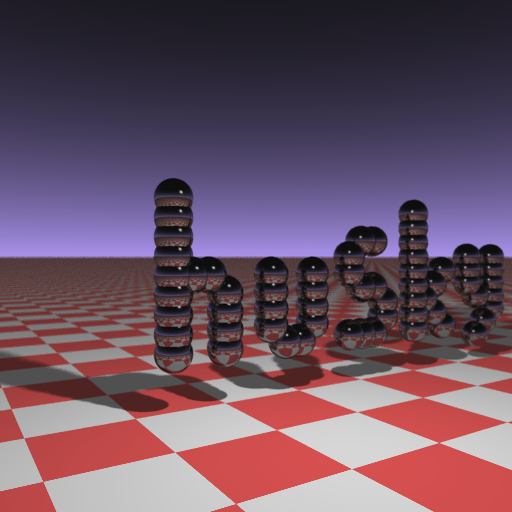
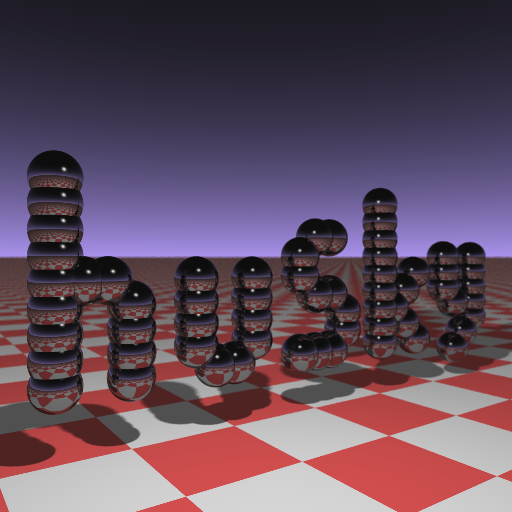
tweaked business-card raytrace camera placement and updated readme screenshot

diff --git a/sycl-business-card-raytracer.cpp b/sycl-business-card-raytracer.cpp
@@ -196,7 +196,7 @@ void GetColor( unsigned char* img, uint32_t gid ) {
 
     //v cam_dir = !v(-4, -16, 0); // more "orthogonal"
     //v cam_dir = !v(-6, -16, 0);
-    v cam_dir = !v( -10, -16, 0 ); // more "slanted"
+    v cam_dir = !v( -11, -16, 0 ); // more "slanted"
     //v cam_dir = !v(0, -20, 0);
     v cam_up = !(v( 0, 0, 1 ) ^ cam_dir) * .002f;
     v cam_right = !(cam_dir ^ cam_up) * .002f;// * ( static_cast<float>(DIM_X)/static_cast<float>(DIM_Y) );
@@ -208,7 +208,7 @@ void GetColor( unsigned char* img, uint32_t gid ) {
         v delta = cam_up * (RANDOM( g_seed ) - .5f) * 99.0f + cam_right * (RANDOM( g_seed ) - 0.5f) * 99.0f;
         color = Sample(
             //v(17, 16, 8) + delta,
-            v( 23, 24, 8 ) + delta, // move cam to the left and slightly away from the text
+            v( 17.5f, 20, 8 ) + delta, // move cam to the left and slightly away from the text
             !(delta * -1 + (cam_up * (RANDOM( g_seed ) + x) + cam_right * (y + RANDOM( g_seed )) + eye_offset) * 16.0f), g_seed )
             * 3.5f +
             color;
@@ -240,9 +240,6 @@ int main() {
         //    2nd parameter is the kernel, a lambda that specifies what to do per
         //    work item. the parameter of the lambda is the work item id.
         // SYCL supports unnamed lambda kernel by default.
-
-        //!!! printf( "sycl parallel for\n" );
-
         auto e = q.parallel_for(
             numPixels,
             [=]( auto gid ) {
@@ -261,10 +258,8 @@ int main() {
         printf( "P6\n# duration=%fsec\n%d %d 255 ", duration, DIM_X, DIM_Y );
 
         char* c = reinterpret_cast<char*>(dev_bitmap);
-        for (int y = DIM_Y; y--;)
-        {
-            for (int x = DIM_X; x--;)
-            {
+        for ( uint32_t y = DIM_Y; y--; ) {
+            for ( uint32_t x = DIM_X; x--; ) {
                 c = reinterpret_cast<char*>(&dev_bitmap[y * DIM_X * BPP + x * BPP]);
                 printf( "%c%c%c", c[0], c[1], c[2] );
                 c += BPP;
